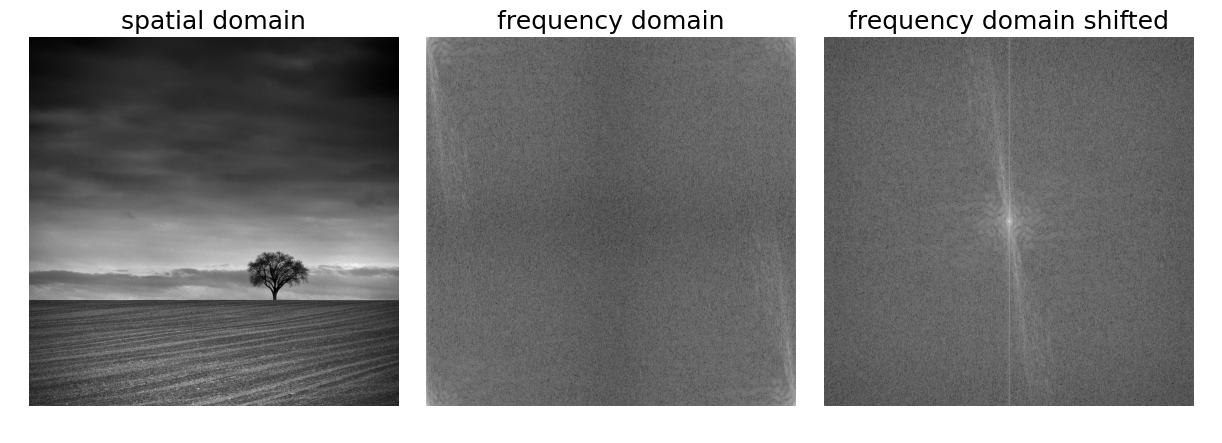
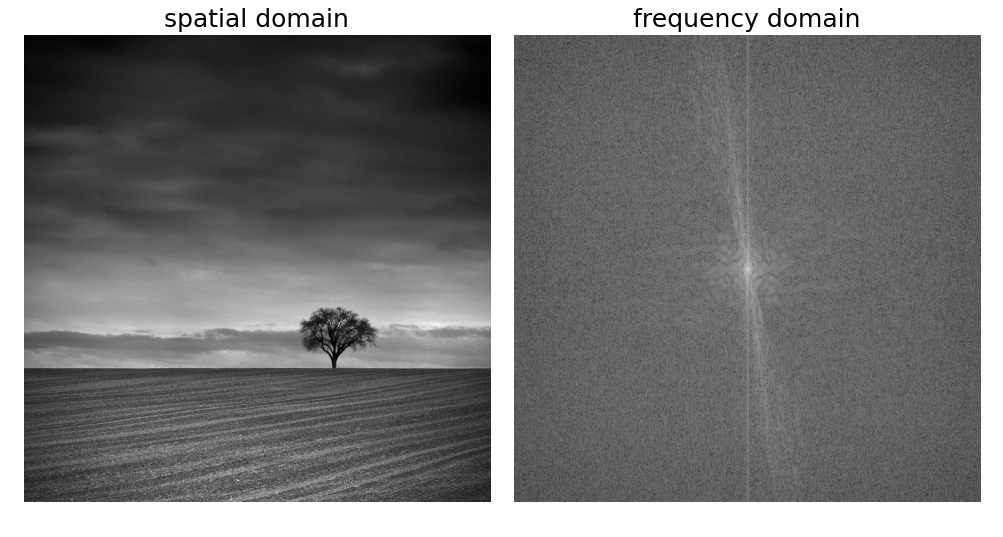
appendix: code snippets

Changed region(s): [[0.0, 0.0, 0.989, 0.9391], [0.8036, 0.3521, 0.8654, 0.6456]]

diff --git a/chapters/01_introduction.tex b/chapters/01_introduction.tex
@@ -424,7 +424,7 @@ Consider a noisy image as in case of Figure \ref{fig:sobel-vs-wl-noisy}. Compare
   \label{fig:sobel-vs-wl-noisy}
 \end{figure}
 
-The methods that were previously discussed are rather expensive in terms of computation costs if the algorithm is not well optimized. In the next section, a different filtering perspective is discussed which is typically faster than the former and offers a new perspective to handle image components with various frequencies.
+The methods that were previously discussed are rather expensive in terms of computation costs if the algorithm is not well optimized. In the next section, a different filtering perspective is discussed which is typically faster than the former and offers a new approach to handle image components with various frequencies.
 
 \subsection{Filtering in Frequency Domain}
 
@@ -526,31 +526,17 @@ The previously mentioned theorems can be extended to two dimension space which c
 	\label{eq:2d-fourier-inverse}
 \end{equation}
 
-where $f(x, y)$ is a digital image of size $M\times N$. When writing a Python algorithm, all the previously mentioned theory is encapsulated by pre-written functions of many libraries. Appendix \ref{appendix:a} towards the end of the thesis contains a list of all the used dependencies. Figure \ref{code:np-fft} includes the code required to reproduce images on Figure \ref{fig:tree-fourier}.
+where $f(x, y)$ is a digital image of size $M\times N$. When writing a Python algorithm, all the previously mentioned theory is encapsulated by pre-written functions of many libraries. Appendix \ref{appendix:a} towards the end of the thesis contains a list of all the used dependencies. Appendix \ref{appendix:b} includes code snippets used in the thesis.
 
-\begin{figure}[htpb]
-	\centering
-	\begin{tabular}{c}
-	\begin{lstlisting}[language=Python]
-import numpy as np		
-img = read_image(...)
-img_ft = np.fft.fft2(img)
-img_ft_abs = np.log(np.abs(img_ft))
-img_ft_abs_shifted = np.fft.fftshift(img_ft_abs)
-	\end{lstlisting}
-	\end{tabular}
-	\caption[Example listing]{Visualization of the Fourier transform}\label{code:np-fft}
-\end{figure}
-
-Variable \emph{img\textunderscore ft} is the discrete Fourier transform of the image. In the next line, the absolute value of the image is taken as the result of the Fourier transform outputs complex values. Furthermore, logarithm function needs to be applied in order to see any information on the output. Otherwise, the output is completely dark. This stage is variable \emph{img\textunderscore ft\textunderscore abs} which is displayed on the center image of Figure \ref{fig:tree-fourier}. As it can be noticed, the zero frequency is located in the upper left corner of the image rather than its center. This is not a mistake, it is how numpy handles the ordering of frequencies. If the traditional visualization is wanted, the frequencies has to be shifted with the \emph{fftshift} method. The result is then saved into variable \emph{img\textunderscore ft\textunderscore abs\textunderscore shifted} which is plotted on on the right image of Figure \ref{fig:tree-fourier}. Hereafter, the same frequency shift is applied on every visualization and the low frequency components are at the center of the frequency domain while the high frequency components are further away in the radial direction.
+Figure \ref{fig:tree-fourier} shows the output of the discrete Fourier transform of an example image. The low frequency components are at the center of the frequency domain while the high frequency components are further away in the radial direction.
 
 \begin{figure}[htpb]
   \centering
-  \includegraphics[width=0.9\textwidth]{figures/intro/tree-fourier.png}
+  \includegraphics[width=0.6\textwidth]{figures/intro/tree-fourier.png}
   \caption{
-	Left: Original image (\emph{img}) \cite{tree-img} \\\hspace{\textwidth}
-	Center: Frequency domain (\emph{img\textunderscore ft\textunderscore abs})  \\\hspace{\textwidth}
-	Right: Shifted frequency domain (\emph{img\textunderscore ft\textunderscore abs\textunderscore shifted})
+	Left: Original image  \cite{tree-img} \\\hspace{\textwidth}
+	Right: Image in frequency domain  \\\hspace{\textwidth}
+	Code Snippet \ref{code:fft-shift}
    }
   \label{fig:tree-fourier}
 \end{figure}
@@ -575,25 +561,7 @@ To create a low-pass filter in frequency domain to highlight edges only, the mos
     \label{eq:ilpf}
 \end{equation}
 
-where $D(u,v)$ is the distance from the center of the frequency domain and $D_{0}$ is a positive constant. The details of implementation is shown on Figure \ref{code:ilpf}. First, a coordinate system is generated with the discrete Fourier transform sample frequencies $u$ and $v$ matching the shape of the input image. Then, the function $np.meshgrid$ creates coordinate arrays for the $v$ and the $u$ coordinates and saves them into variable $vv$ and $uu$. Finally, \gls{ilpf} is calculated in frequency domain and stored in variable \emph{filter\textunderscore f}. From this point forward, the same procedure is used to generate the required coordinate arrays of the frequency domain and the final line is the same as well where \emph{img\textunderscore filtered} is acquired. Therefore, only \emph{filter\textunderscore f} is present in the following code snippets. Figure \ref{fig:tree-ilpf} displays the filter in use. 
-
-\begin{figure}[htpb]
-	\centering
-	\begin{tabular}{c}
-	\begin{lstlisting}[language=Python]
-import numpy as np		
-img = read_image(...)
-u = np.fft.fftfreq(img.shape[1])
-v = np.fft.fftfreq(img.shape[0])
-vv, uu = np.meshgrid(v, u, indexing='ij')
-D_0 = 0.05
-filter_f = (np.hypot(vv, uu) < D_0)
-img_f = np.fft.fft2(img)
-img_filtered = np.fft.ifft2(img_ft*filter_f).real
-	\end{lstlisting}
-	\end{tabular}
-	\caption[Example listing]{Implementation and application of Equation \ref{eq:ilpf}}\label{code:ilpf}
-\end{figure}
+where $D(u,v)$ is the distance from the center of the frequency domain and $D_{0}$ is a positive constant. The details of implementation is shown on Figure \ref{code:ilpf}.x` Figure \ref{fig:tree-ilpf} displays the filter in use. 
 
 \begin{figure}[htpb]
   \centering
@@ -629,17 +597,6 @@ As a reminder, filtering in the spatial domain is accomplished by convolving the
 where $D(u,v)$ is the distance from the center of the frequency domain and $\sigma$ is a measure of spread about the center. The details of implementation are shown on Figure \ref{code:glpf}. Replacing \gls{ilpf} with Gaussian low-pass filter (\gls{glpf}), the result is shown on Figure \ref{fig:tree-glpf}. As it can be noticed, the unwanted ringing artifact is eliminated while the blurring is accomplished successfully. 
 
 \begin{figure}[htpb]
-	\centering
-	\begin{tabular}{c}
-	\begin{lstlisting}[language=Python]
-sigma = 1/10
-filter_f = np.exp(-np.hypot(uu, vv)**2/(2*sigma**2))
-	\end{lstlisting}
-	\end{tabular}
-	\caption[Example listing]{Implementation of Equation \ref{eq:glpf}}\label{code:glpf}
-\end{figure}
-
-\begin{figure}[htpb]
   \centering
   \includegraphics[width=0.9\textwidth]{figures/intro/tree-glpf.png}
   \caption{
@@ -657,15 +614,6 @@ Next, high-pass filtering is discussed. In order to create a high-pass filter, t
 	\label{eq:ghpf}
 \end{equation}
 
-\begin{figure}[htpb]
-	\centering
-	\begin{tabular}{c}
-	\begin{lstlisting}[language=Python]
-sigma = 1/10
-filter_f = 1 - np.exp(-np.hypot(uu, vv)**2/(2*sigma**2))
-	\end{lstlisting}
-	\end{tabular}
-	\caption[Example listing]{Implementation of Equation \ref{eq:ghpf}}\label{code:ghpf}
-\end{figure}
+
 
 

diff --git a/pages/appendix.tex b/pages/appendix.tex
@@ -1,9 +1,83 @@
 \chapter{Python Dependencies}
 \label{appendix:a}
 
+This appendix contains a list of all Python libraries used in the thesis.
+
 \begin{itemize}
     \item Python \cite{rossum2009python}
     \item Matplotlib \cite{hunter2007matplotlib}: generating plots
     \item Numpy \cite{harris2020array}: storing array data structures, several data manipulation methods
     \item SciPy \cite{2020SciPy-NMeth}: convolving images with kernels
 \end{itemize}
+
+\chapter{Code Snippets}
+\label{appendix:b}
+
+\captionsetup{justification   = raggedright,
+              singlelinecheck = false}
+
+This appendix contains code snippets used in this thesis.
+
+\begin{figure}[htpb]
+	\begin{tabular}{c}
+	\begin{lstlisting}[language=Python]
+import numpy as np		
+img = read_image(...)
+img_ft = np.fft.fft2(img)
+img_ft_abs = np.log(np.abs(img_ft))
+img_ft_abs_shifted = np.fft.fftshift(img_ft_abs)
+	\end{lstlisting}
+	\end{tabular}
+	\caption[Example listing]{Visualization of the Fourier transform. Variable \emph{img\textunderscore ft} is the discrete Fourier transform of the image. In the next line, the absolute value of the image is taken as the result of the Fourier transform outputs complex values. Furthermore, logarithm function needs to be applied in order to see any information on the output. Otherwise, the output is completely dark. This stage is variable \emph{img\textunderscore ft\textunderscore abs}. The default location of the zero frequency is in the upper left corner of the image rather than its center. This is not a mistake, it is how numpy handles the ordering of frequencies. Shifting has to be called explicitly if wanted.}\label{code:fft-shift}
+\end{figure}
+
+\begin{figure}[htpb]
+	\begin{tabular}{c}
+	\begin{lstlisting}[language=Python]
+import numpy as np		
+img = read_image(...)
+u = np.fft.fftfreq(img.shape[1])
+v = np.fft.fftfreq(img.shape[0])
+vv, uu = np.meshgrid(v, u, indexing='ij')
+D_0 = 0.05
+filter_f = (np.hypot(vv, uu) < D_0)
+img_f = np.fft.fft2(img)
+img_filtered = np.fft.ifft2(img_ft*filter_f).real
+	\end{lstlisting}
+	\end{tabular}
+	\caption[Example listing]{Implementation and application of \gls{ilpf} (Equation \ref{eq:ilpf}). First, a coordinate system is generated with the discrete Fourier transform sample frequencies $u$ and $v$ matching the shape of the input image. Then, the function $np.meshgrid$ creates coordinate arrays for the $v$ and the $u$ coordinates and saves them into variable $vv$ and $uu$. Finally, \gls{ilpf} is calculated in frequency domain and stored in variable \emph{filter\textunderscore f}.}\label{code:ilpf}
+\end{figure}
+
+\begin{figure}[htpb]
+	\begin{tabular}{c}
+	\begin{lstlisting}[language=Python]
+import numpy as np		
+img = read_image(...)
+v = np.fft.fftfreq(img.shape[0])
+u = np.fft.fftfreq(img.shape[1])
+vv, uu = np.meshgrid(v, u, indexing='ij')
+sigma = 1/10
+filter_f = np.exp(-np.hypot(uu, vv)**2/(2*sigma**2))
+img_f = np.fft.fft2(img)
+img_filtered = np.fft.ifft2(img_f*filter_f).real
+	\end{lstlisting}
+	\end{tabular}
+	\caption[Example listing]{Implementation of \gls{glpf} (Equation \ref{eq:glpf})}\label{code:glpf}
+\end{figure}
+
+\begin{figure}[htpb]
+	\begin{tabular}{c}
+	\begin{lstlisting}[language=Python]
+import numpy as np		
+img = read_image(...)
+v = np.fft.fftfreq(img.shape[0])
+u = np.fft.fftfreq(img.shape[1])
+vv, uu = np.meshgrid(v, u, indexing='ij')
+sigma = 1/10
+filter_f = 1 - np.exp(-np.hypot(uu, vv)**2/(2*sigma**2))
+img_f = np.fft.fft2(img)
+img_filtered = np.fft.ifft2(img_f*filter_f).real
+	\end{lstlisting}
+	\end{tabular}
+	\caption[Example listing]{Implementation of \gls{ghpf} (Equation \ref{eq:ghpf})}\label{code:ghpf}
+\end{figure}
